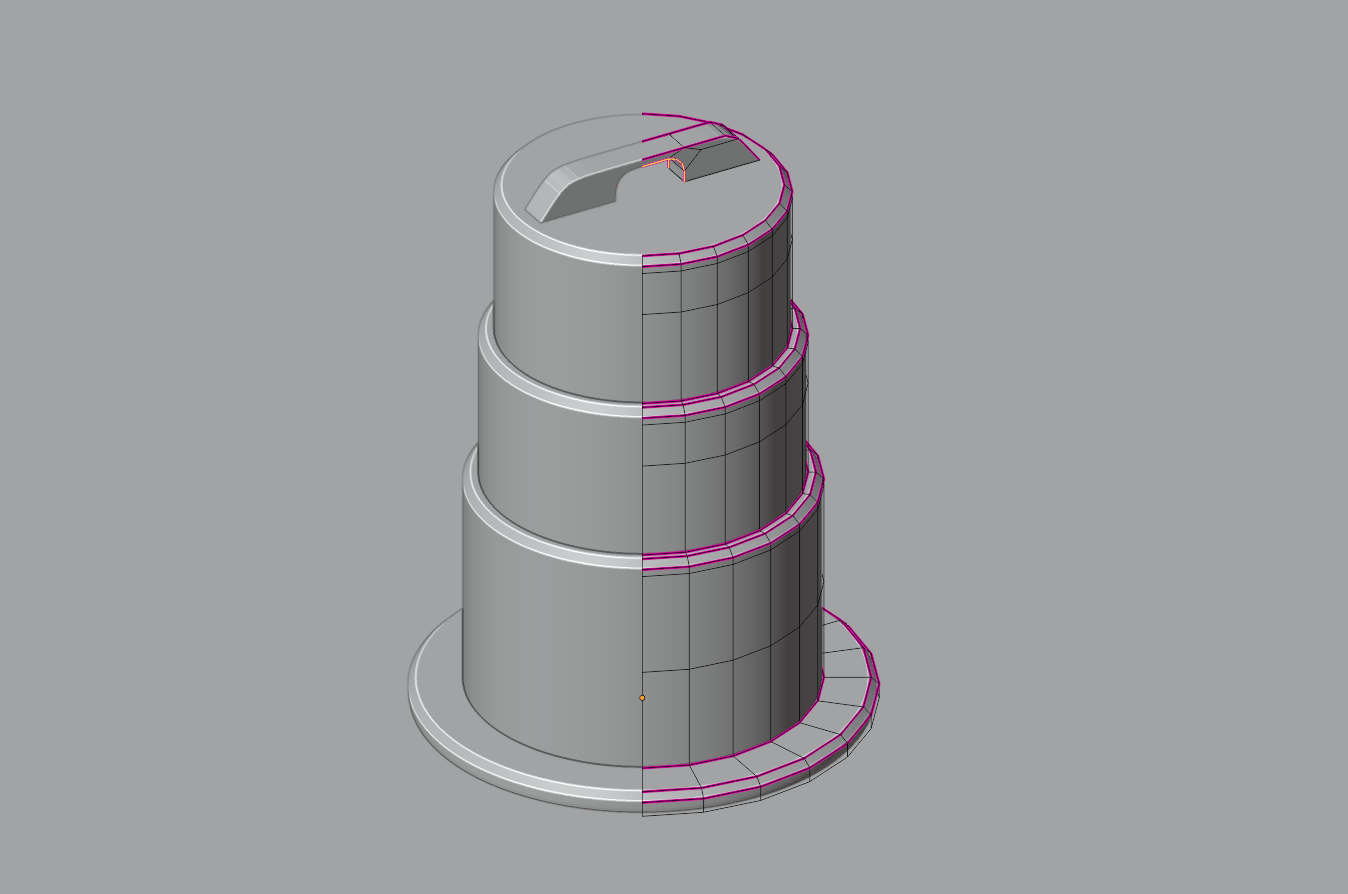
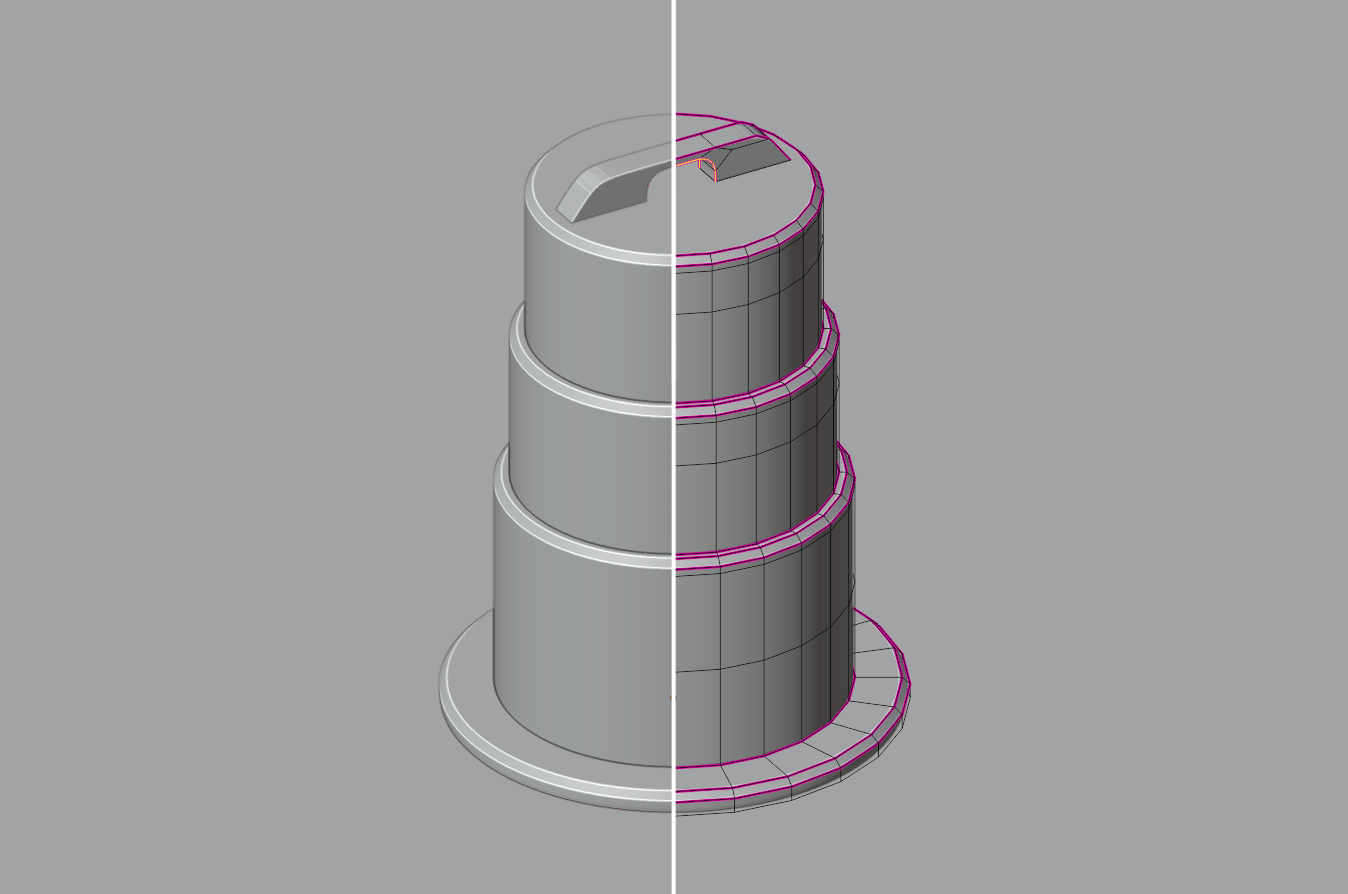
copy and pictures for all features

Changed region(s): [[0.3116, 0.1208, 0.6855, 0.9362]]

diff --git a/index.html b/index.html
@@ -224,25 +224,25 @@
                 </div>
 
                 <div class="column">
-                    <img src="https://placehold.co/600x400" alt="Production ready assets" />
+                    <img src="img/production-ready-assets.png" alt="Production ready assets" />
                     <h3>Built for real production</h3>
                     <p>Tailored to concept artists, 3D artists, and game developers.</p>
                 </div>
 
                 <div class="column">
-                    <img src="https://placehold.co/600x400" alt="Eevee and Cycles compatible" />
+                    <img src="img/eevee-and-cycles.png" alt="Eevee and Cycles compatible" />
                     <h3>Render anywhere</h3>
                     <p>Works in Eevee and Cycles</p>
                 </div>
 
                 <div class="column">
-                    <img src="https://placehold.co/600x400" alt="Procedural materials" />
+                    <img src="img/procedural-materials.png" alt="Procedural materials" />
                     <h3>Materials that scale with your scene</h3>
                     <p>Efficient procedural materials driven by object coordinates</p>
                 </div>
 
                 <div class="column">
-                    <img src="https://placehold.co/600x400" alt="Tileable assets" />
+                    <img src="img/tileable-assets.png" alt="Tileable assets" />
                     <h3>Perfect tiling every time</h3>
                     <p>Smart connections for tileable assets</p>
                 </div>
@@ -317,8 +317,7 @@
             <h2>LiteBash & <span>Early Access</span></h2>
             <p>LiteBash is always being updated. The earlier you buy it, the more value you get. Your purchase also
                 encourages our team to keep updates on schedule.</p>
-            <p>You can even support development or influence which assets appear in the next version by supporting us on
-                Patreon.
+            <p>You can even support development or influence which assets appear in the next version by supporting us on Patreon. <em>(coming soon)</em>
         </section>
 
         <section id="try-and-buy">
